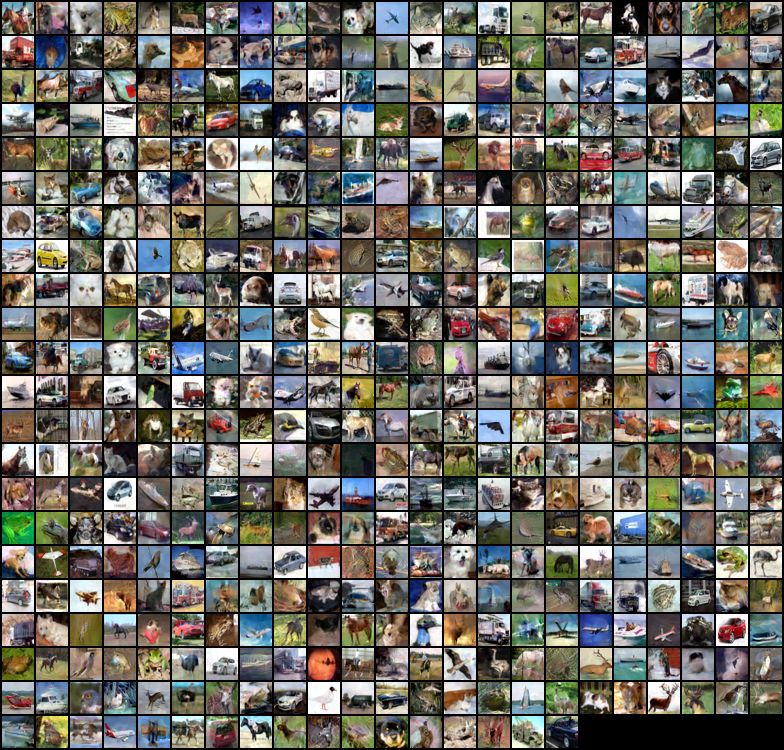
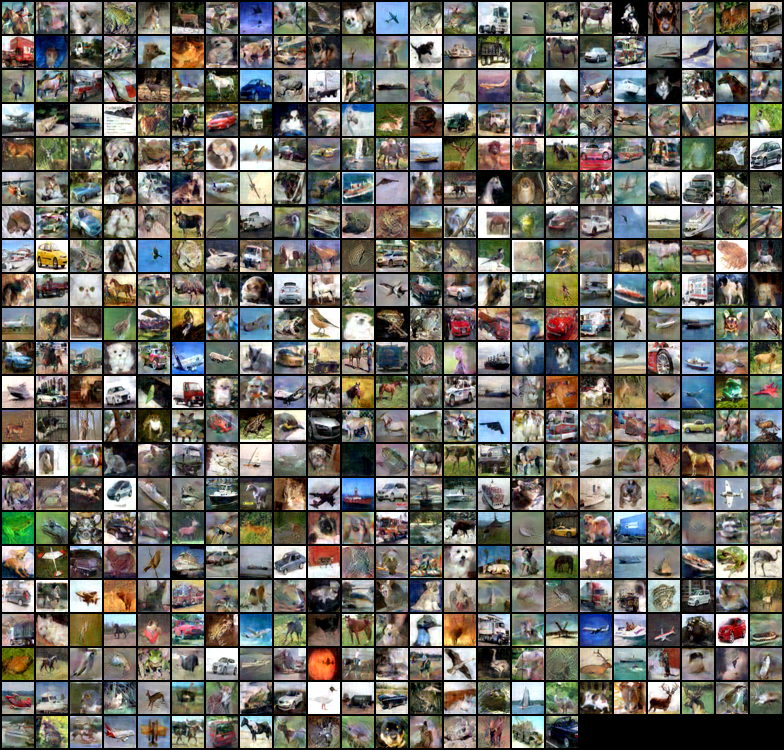
d

diff --git a/OT-SSL-DD/main_SSL_new.py b/OT-SSL-DD/main_SSL_new.py
@@ -95,17 +95,17 @@ def main():
     parser.add_argument('--seed', type=int, default=0, help='seed for distillation initialization and evaluation')
 
     # -------------------- Distillation --------------------
-    parser.add_argument('--Iteration', type=int, default=3001, help='number of synthetic pixel updates')
-    parser.add_argument('--lr_img', type=float, default=0.025, help='SGD step size for synthetic pixels')
-    parser.add_argument('--batch_real', type=int, default=512, help='batch size for caching full real moments')
+    parser.add_argument('--Iteration', type=int, default=4000, help='number of synthetic pixel updates')
+    parser.add_argument('--lr_img', type=float, default=0.1, help='SGD step size for synthetic pixels')
+    parser.add_argument('--batch_real', type=int, default=4096, help='batch size for caching full real moments')
     parser.add_argument('--batch_syn', type=int, default=512, help='synthetic scattering batch size; moments use all images')
     parser.add_argument('--scattering_J', type=int, default=2, help='log2 scattering scale (at least 2)')
-    parser.add_argument('--scattering_L', type=int, default=16, help='number of wavelet orientations')
-    parser.add_argument('--gamma', type=float, default=20.0, help='weight of squared mean distance; covariance weight is 1')
-    parser.add_argument('--covariance_block_size', type=int, default=2048, help='rows per exact covariance-loss block')
+    parser.add_argument('--scattering_L', type=int, default=8, help='number of wavelet orientations')
+    parser.add_argument('--gamma', type=float, default=5.0, help='weight of squared mean distance; covariance weight is 1')
+    parser.add_argument('--covariance_block_size', type=int, default=1024, help='rows per exact covariance-loss block')
     parser.add_argument('--distill_aug_views', type=int, default=2, help='fresh augmented loss terms per update, in addition to the clean loss; 0 disables')
     parser.add_argument('--distill_aug_strategy', type=str, default='color_crop_cutout_flip_scale_rotate', help='DSA operations for distillation views')
-    parser.add_argument('--distill_aug_mode', choices=['S', 'M'], default='S', help='S: sample one operation group per view; M: compose all listed groups')
+    parser.add_argument('--distill_aug_mode', choices=['S', 'M'], default='M', help='S: sample one operation group per view; M: compose all listed groups')
 
     # -------------------- SSL evaluation --------------------
     parser.add_argument('--model', type=str, default='ConvNet', help='evaluation model')
@@ -117,7 +117,7 @@ def main():
     parser.add_argument('--temperature', type=float, default=0.5, help='temperature for SimCLR')
     parser.add_argument('--barlow_lambda', type=float, default=0.005, help='off-diagonal weight for Barlow Twins')
     parser.add_argument('--eval_mode', type=str, default='S', help='evaluation architecture pool')
-    parser.add_argument('--num_eval', type=int, default=6, help='number of random evaluation networks; 0 skips evaluation')
+    parser.add_argument('--num_eval', type=int, default=4, help='number of random evaluation networks; 0 skips evaluation')
     parser.add_argument('--epoch_eval_train', type=int, default=1000, help='SSL evaluation epochs')
     parser.add_argument('--label_percentage', type=float, default=1.0, help='percentage of labeled data for linear probing')
     parser.add_argument('--epoch_linear_train', type=int, default=100, help='epochs to train the linear probe')
@@ -224,7 +224,7 @@ def main():
     # Plain SGD implements S_{t+1} = S_t - lr_img * grad_S L exactly.
     # optimizer_img = torch.optim.SGD([image_syn], lr=args.lr_img)
     optimizer_img = torch.optim.Adam([image_syn, ], lr=args.lr_img) # optimizer_img for synthetic data
-    # optimizer_img.zero_grad()
+    optimizer_img.zero_grad()
 
 
     for it in range(1, args.Iteration + 1):
@@ -270,15 +270,15 @@ def main():
             if not torch.isfinite(image_syn).all().item():
                 raise FloatingPointError('Synthetic pixel update is non-finite; reduce --lr_img.')
             changed = (to_uint8(image_syn) != image_syn_init_uint8).float().mean().item() * 100
-        if it%50 == 0 or it ==1:
+        if it%5 == 0 or it ==1:
             print('%s iter = %05d, loss = %.10f, covariance = %.10f, mean = %.10f, clean = %.10f, augmented views = %s, PNG values changed = %.5f%%' % (
                 get_time(), it, loss.item(), covariance_loss.item(), mean_loss.item(),
                 clean_loss, ', '.join('%.10f' % value for value in view_losses), changed
             ), flush=True)
 
-        if it % 3000 == 0 and it != args.Iteration:
+        if it % 400 == 0 and it != args.Iteration:
             evaluate(it)
-        if it % 250 == 0 or it == args.Iteration:
+        if it % 50 == 0 or it == args.Iteration:
             save_name = os.path.join(args.save_path, 'vis_%s_%s_%s_%dpercent_iter%d.png' % (
                 args.method, args.dataset, args.model, args.percentage, it
             ))
